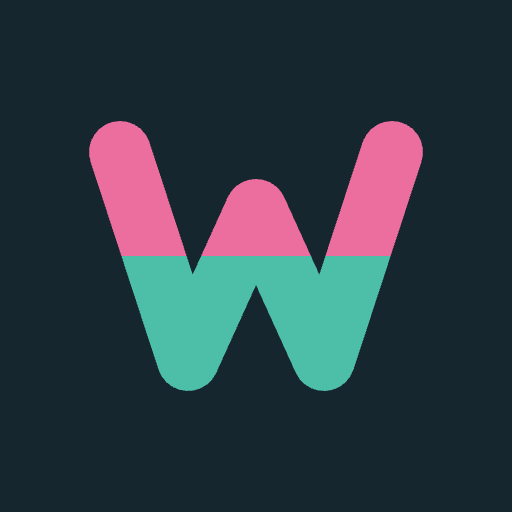
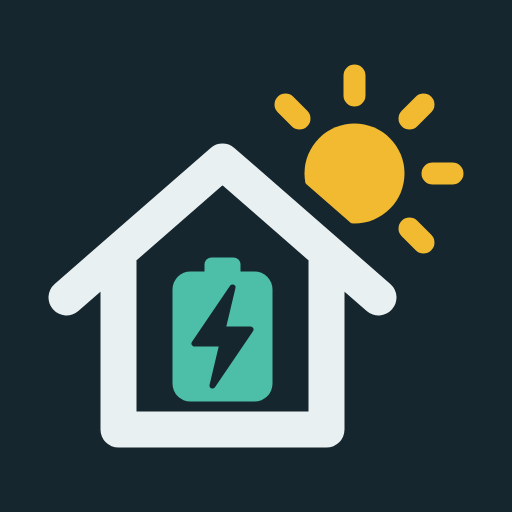
Replace the W mark with a house, battery and sun
The new mark is a house with a charged battery under the sun, drawn with
thick strokes so it still reads at favicon size. scripts/brand.mjs writes
it into the favicon, the icon sources and all logos; the house and bolt
are cut out with masks, so the logos work on any sky background.

Also restores manifest.webmanifest, which the style update left empty,
and bumps the icon URLs to ?v=3 so installed apps pick up the new icon.

Claude-Session: https://claude.ai/code/session_013kxvrhae77zWwYQAhyqXAd

Changed region(s): [[0.0938, 0.125, 0.9062, 0.875], [0.5312, 0.1875, 0.625, 0.25]]

diff --git a/nuxt.config.ts b/nuxt.config.ts
@@ -31,8 +31,8 @@ export default defineNuxtConfig({
         { rel: 'preconnect', href: 'https://fonts.googleapis.com' },
         { rel: 'preconnect', href: 'https://fonts.gstatic.com', crossorigin: '' },
         { rel: 'stylesheet', href: 'https://fonts.googleapis.com/css2?family=Archivo:wdth,wght@62..125,100..900&display=swap' },
-        { rel: 'icon', type: 'image/svg+xml', href: '/favicon.svg' },
-        { rel: 'icon', type: 'image/png', sizes: '32x32', href: '/favicon-32.png' },
+        { rel: 'icon', type: 'image/svg+xml', href: '/favicon.svg?v=3' },
+        { rel: 'icon', type: 'image/png', sizes: '32x32', href: '/favicon-32.png?v=3' },
         // PNG only: iOS can't use SVG for the Home Screen icon
         { rel: 'apple-touch-icon', sizes: '180x180', href: appleTouchIcon },
       ],

diff --git a/README.md b/README.md
@@ -89,7 +89,7 @@ What gets pushed (each can be switched off per device):
 
 The VAPID key pair that signs the pushes is generated on first use and stored in the database (private key encrypted with `NUXT_ENCRYPTION_KEY`). To manage it yourself, set `NUXT_VAPID_PUBLIC_KEY` and `NUXT_VAPID_PRIVATE_KEY` (`npx web-push generate-vapid-keys`). Changing the key means every device has to turn notifications on again. Apple wants a contact in the key: it uses the account email unless `NUXT_VAPID_SUBJECT` (`mailto:…` or `https://…`) is set.
 
-Brand: **WattWise** · *Know your energy.* The app icons in `public/` (`icon-192.png`, `icon-512.png`, `apple-touch-icon.png`, `favicon-32.png`) are rendered from `scripts/icon.svg`, and `icon-maskable-512.png` from `scripts/icon-maskable.svg`. The `apple-touch-icon*.png` copies at the root are for the filenames iOS probes there; the page itself inlines `apple-touch-icon.png` as a data URI (see `nuxt.config.ts`) because iOS's Add to Home Screen sheet can fail to load it from a URL and then shows a letter tile (the mark scaled into Android's 80% safe zone). Logo files live in `public/brand/`: the mark on its own, the logo for dark and light backgrounds, and the lockup with tagline. The mark is the W as a price curve, split at half height: peaks in the discharge magenta, valleys in the grid-charge teal (night tokens on the icons and the dark logos, day tokens on the light ones). The wordmark is Inter Display SemiBold, converted to outlines. The PNGs were rendered with headless Chrome at their exact sizes.
+Brand: **WattWise** · *Know your energy.* The app icons in `public/` (`icon-192.png`, `icon-512.png`, `apple-touch-icon.png`, `favicon-32.png`) are rendered from `scripts/icon.svg`, and `icon-maskable-512.png` from `scripts/icon-maskable.svg`. The `apple-touch-icon*.png` copies at the root are for the filenames iOS probes there; the page itself inlines `apple-touch-icon.png` as a data URI (see `nuxt.config.ts`) because iOS's Add to Home Screen sheet can fail to load it from a URL and then shows a letter tile (the mark scaled into Android's 80% safe zone). Logo files live in `public/brand/`: the mark on its own, the logo for dark and light backgrounds, and the lockup with tagline. The mark is a house with a charged battery under the sun: the house in the text colour, the battery in the grid-charge teal, the sun in the solar yellow (night tokens on the icons and the dark logos, day tokens on the light ones). All these SVGs are written by `node scripts/brand.mjs`; change the mark there, not in the files. The wordmark is Inter Display SemiBold, converted to outlines. The PNGs were rendered with headless Chrome at their exact sizes. Bump the `?v=` on the icon URLs in `manifest.webmanifest` and `nuxt.config.ts` when the icons change, so browsers and installed PWAs pick them up.
 
 ## Capacitor (later)
 
